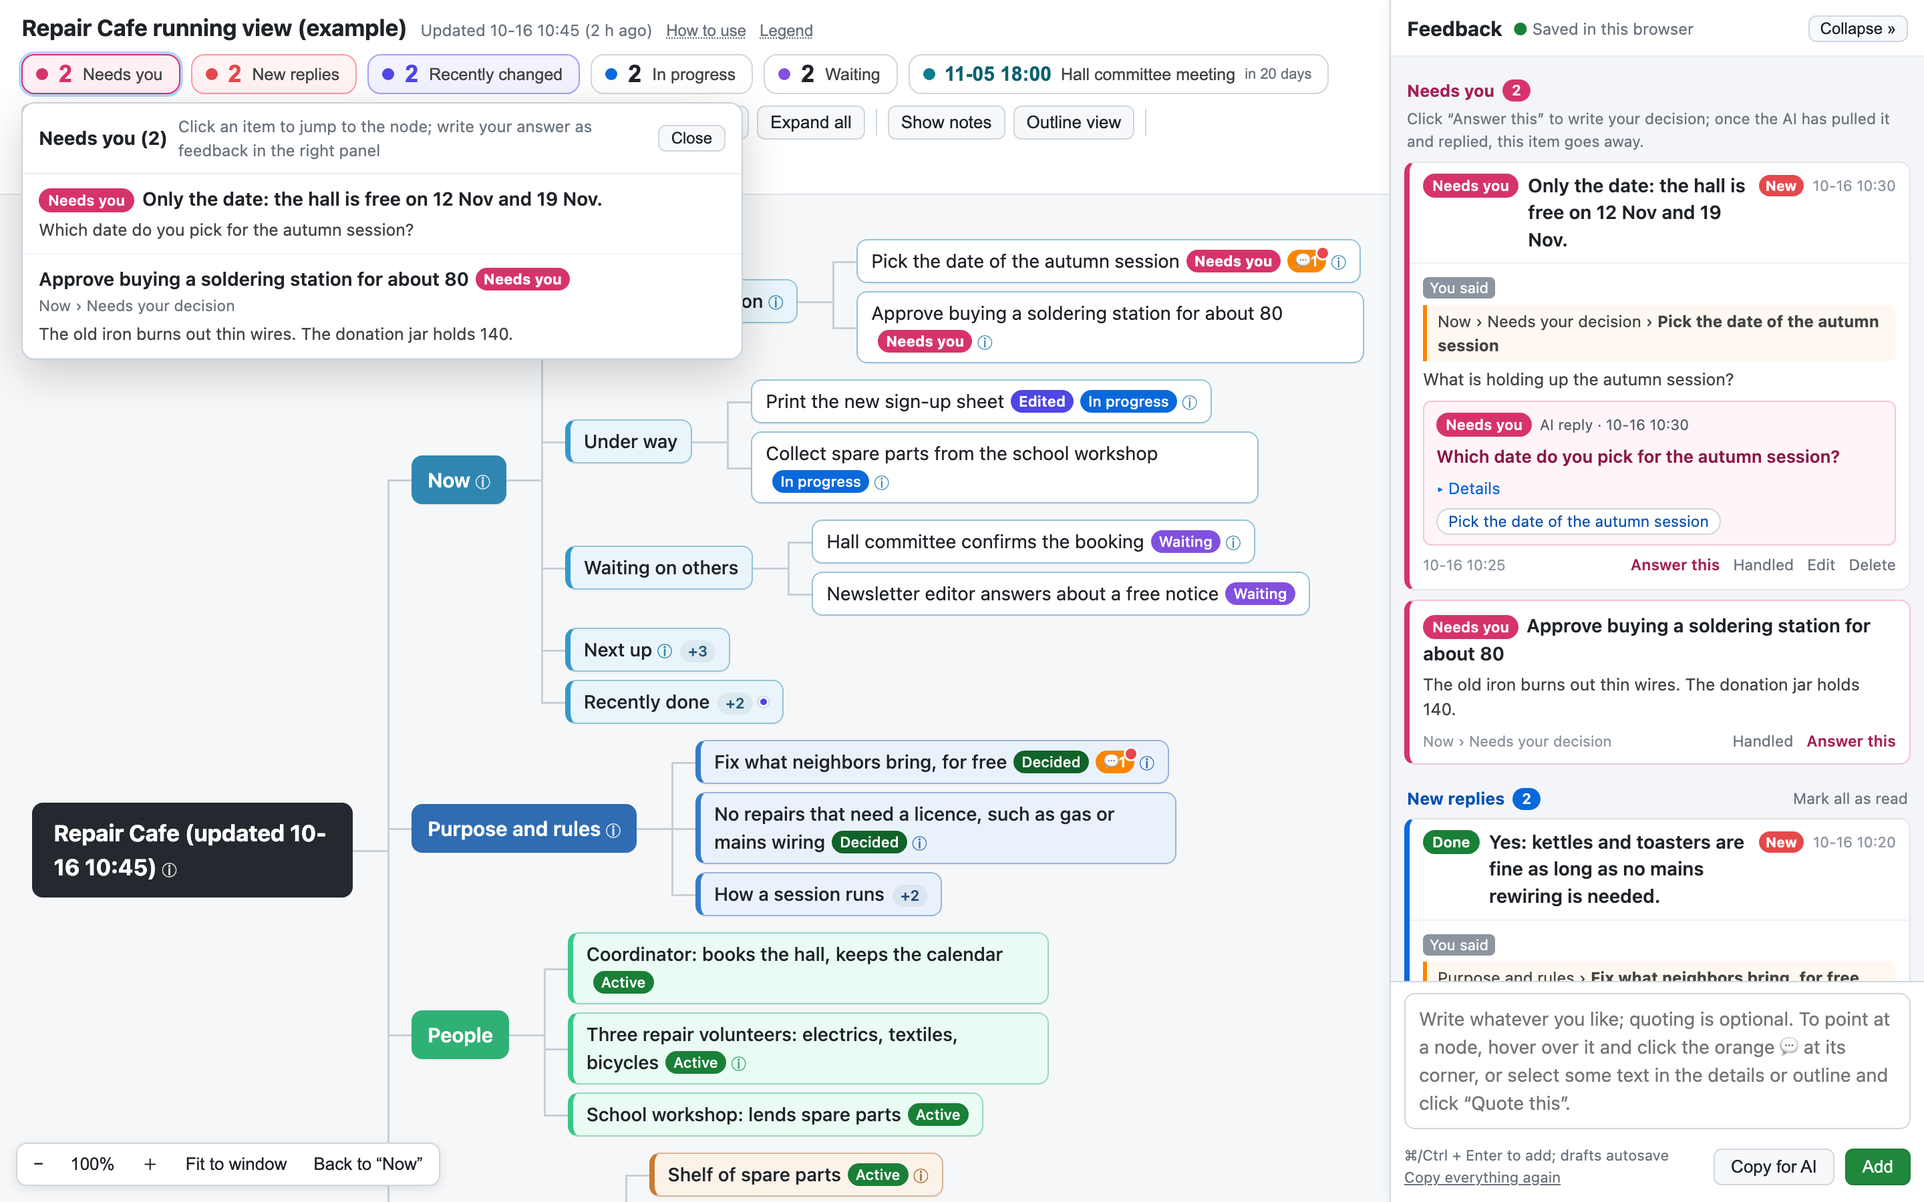
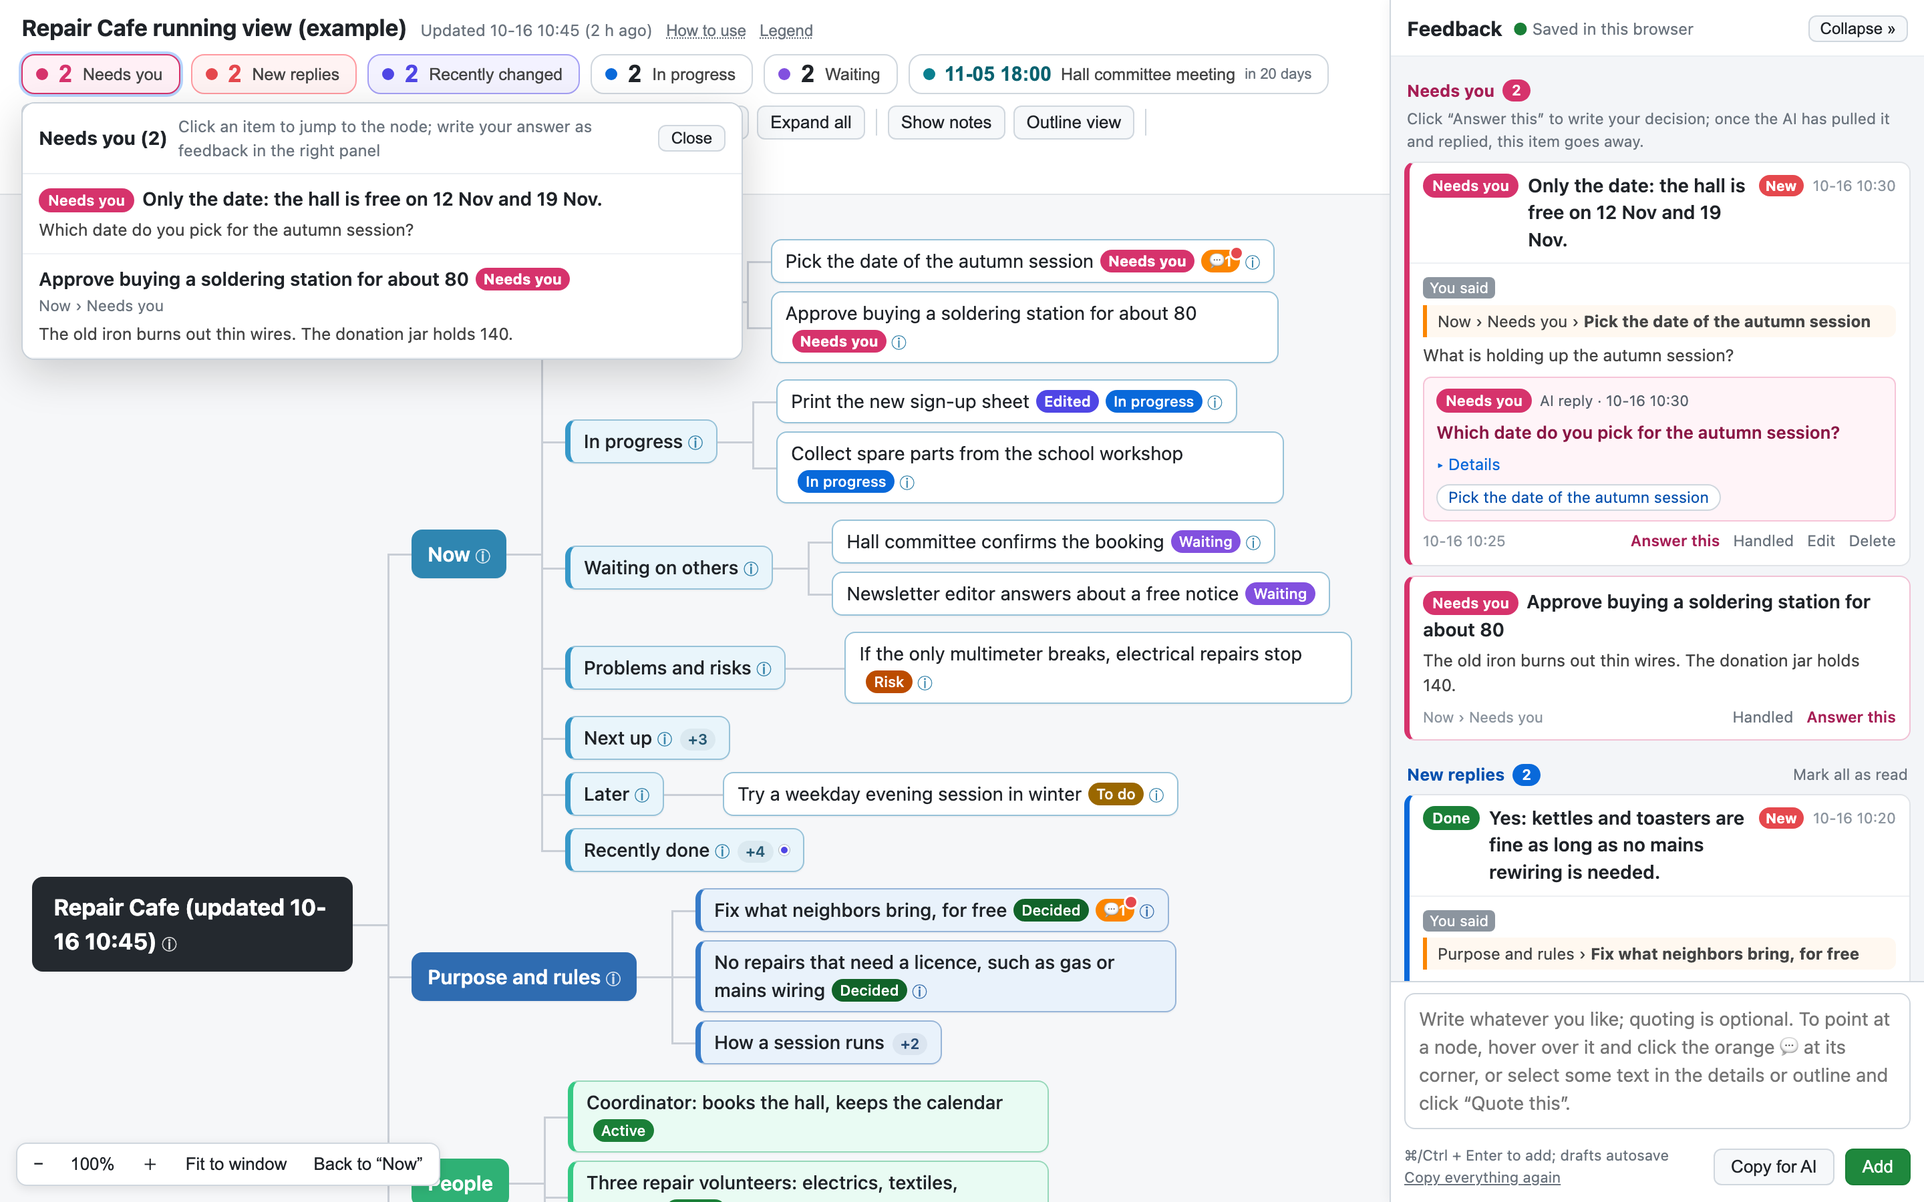
feat: turn the examples into learning and project-tracking maps
- repair-cafe-en/zh: the seven-section Now branch, dated Next up entries, day groups under Recently done
- tool-library-en and book-corner-zh: a "What this means for us" branch, use: learning
- the demo-site index labels each example by its use
- screenshots regenerated; the examples are checked against the new rules with the clock pinned

diff --git a/tests/test_examples.py b/tests/test_examples.py
@@ -1,12 +1,16 @@
 """Every example under examples/ must build cleanly and in its own language; the two big ones show off all ten
 statuses, the two small "repair-cafe" ones show the long-running console (the "now" branch and the needs-you tag)."""
 import json
+import os
 import re
 import shutil
 import tempfile
 import unittest
 
 from helpers import CJK, EXAMPLES, build, page_json
+
+# The dates in the console examples are fictional and sit around this moment (2026-10-18 12:00 UTC); their "Now" check is run at it.
+EXAMPLE_EPOCH = "1792324800"
 
 ALL_STATUSES = {"active", "stopped", "doing", "todo", "issue", "done", "decided", "waiting", "risk", "proposal"}
 CONSOLE = "repair-cafe"      # the folder prefix of the long-running console examples
@@ -107,6 +111,40 @@ class ExampleTests(unittest.TestCase):
                 self.assertNotIn("{{", result.root["t"])       # the update-time placeholder was replaced
                 self.assertTrue(any(re.match(r"\d\d-\d\d \d\d:\d\d ", n["t"]) for n, _, _ in build.walk(result.root)),
                                 "dated entries for the 'next up' number")
+
+    def test_the_console_examples_are_project_tracking_maps_with_the_seven_sections_and_a_clean_check(self):
+        sections = {"repair-cafe-en": ["Needs you", "In progress", "Waiting on others", "Problems and risks", "Next up", "Later", "Recently done"],
+                    "repair-cafe-zh": ["要你定的", "在做的", "在等别人的", "问题和风险", "接下来的时间点", "以后再做", "最近做完的"]}
+        os.environ["SOURCE_DATE_EPOCH"] = EXAMPLE_EPOCH
+        self.addCleanup(os.environ.pop, "SOURCE_DATE_EPOCH", None)
+        for src in example_dirs():
+            if not is_console(src):
+                continue
+            with self.subTest(example=src.name):
+                tmp = tempfile.mkdtemp(prefix="mind-atlas-example-")
+                self.addCleanup(shutil.rmtree, tmp, True)
+                meta = json.loads((src / "meta.json").read_text(encoding="utf-8"))
+                result = build.build(shutil.copytree(str(src), tmp + "/work"), no_paths=True)
+                now = result.root["c"][0]
+                self.assertEqual([c["t"] for c in now["c"]], sections[src.name])
+                self.assertEqual(page_json(result.out.read_text(encoding="utf-8"), "meta")["use"], "tracking")
+                self.assertIn(meta["use"], build.USES["tracking"])
+                self.assertEqual(result.stale, [])               # no passed time points, no "today", "Recently done" in limits
+                self.assertEqual(result.open_outside, [])
+
+    def test_the_big_examples_are_learning_maps_that_end_with_what_it_means_for_us(self):
+        for src in example_dirs():
+            if is_console(src):
+                continue
+            with self.subTest(example=src.name):
+                tmp = tempfile.mkdtemp(prefix="mind-atlas-example-")
+                self.addCleanup(shutil.rmtree, tmp, True)
+                result = build.build(shutil.copytree(str(src), tmp + "/work"), no_paths=True)
+                self.assertEqual(page_json(result.out.read_text(encoding="utf-8"), "meta")["use"], "learning")
+                titles = [c["t"] for c in result.root["c"]]
+                self.assertEqual(titles[-2], {"en": "What this means for us", "zh": "对我们有什么用"}[src.name.rsplit("-", 1)[1]])
+                self.assertEqual(titles[-1], {"en": "About this map", "zh": "关于这张图"}[src.name.rsplit("-", 1)[1]])
+                self.assertIsNone(result.stale)                  # no "now" branch, so nothing to check
 
     def test_the_english_example_uses_the_ascii_spellings(self):
         src = EXAMPLES / "tool-library-en"

diff --git a/tools/make_screenshots.py b/tools/make_screenshots.py
@@ -72,7 +72,7 @@ SHOTS = [
         "items": [{"id": "F1016-101500-ab", "ts": "2026-10-16 10:15:00", "sent": "2026-10-16 10:16:00",
                    "text": "Can we also fix kettles and toasters?", "path": ["Purpose and rules", "Fix what neighbors bring, for free"]},
                   {"id": "F1016-102500-cd", "ts": "2026-10-16 10:25:00", "sent": "2026-10-16 10:26:00",
-                   "text": "What is holding up the autumn session?", "path": ["Now", "Needs your decision", "Pick the date of the autumn session"]}],
+                   "text": "What is holding up the autumn session?", "path": ["Now", "Needs you", "Pick the date of the autumn session"]}],
         "replies": [{"id": "F1016-101500-ab", "ts": "2026-10-16 10:20:00", "status": "done",
                      "summary": "Yes: kettles and toasters are fine as long as no mains rewiring is needed.",
                      "text": "Small appliances with a plug are in scope. I added them to the rule and to the sign-in sheet draft.",
@@ -89,7 +89,7 @@ SHOTS = [
         "items": [{"id": "F1016-101500-ab", "ts": "2026-10-16 10:15:00", "sent": "2026-10-16 10:16:00",
                    "text": "水壶和烤面包机也能修吗？", "path": ["目的与规矩", "免费帮邻居修他们带来的东西"]},
                   {"id": "F1016-102500-cd", "ts": "2026-10-16 10:25:00", "sent": "2026-10-16 10:26:00",
-                   "text": "秋季场现在卡在哪？", "path": ["现在", "等你拍板", "选定秋季场的日期"]}],
+                   "text": "秋季场现在卡在哪？", "path": ["现在", "要你定的", "选定秋季场的日期"]}],
         "replies": [{"id": "F1016-101500-ab", "ts": "2026-10-16 10:20:00", "status": "已做",
                      "summary": "能修：水壶和烤面包机都行，只要不用改市电布线。",
                      "text": "带插头的小家电都在范围内。我已把它们写进规矩，也加进了签到表草稿。",

diff --git a/tools/build_site.py b/tools/build_site.py
@@ -61,7 +61,8 @@ def build_site(out_dir):
         finally:
             shutil.rmtree(str(tmp), ignore_errors=True)
         language = "English" if meta.get("lang") == "en" else "中文"
-        kind = "long-running console / 长期控制台" if meta.get("now") else "full map / 全貌图"
+        kind = {"tracking": "project tracking / 跟进项目", "learning": "learning / 学习理解",
+                "decision": "decision / 做决定"}.get(build.normalize_use(meta.get("use", "")), "map / 导图")
         items.append('<li><a href="%s">%s</a> <small>%s, %s, %d nodes</small></li>'
                      % (result.out.name, build.esc(meta["title"]), language, kind, result.nodes))
         written.append(result.out.name)

diff --git a/tests/test_site.py b/tests/test_site.py
@@ -23,6 +23,8 @@ class SiteTests(unittest.TestCase):
             meta = page_json((out / name).read_text(encoding="utf-8"), "meta")
             self.assertNotIn("file", meta)
             self.assertNotIn("reply_cmd", meta)
+        self.assertEqual(index.count("project tracking / 跟进项目"), 2)       # the kind comes from the example's "use"
+        self.assertEqual(index.count("learning / 学习理解"), 2)
         self.assertTrue((out / ".nojekyll").exists())
         self.assertEqual(sorted(p.name for p in out.iterdir()), [".nojekyll", "book-corner.html", "index.html", "repair-cafe-zh.html", "repair-cafe.html", "tool-library.html"])
 

diff --git a/examples/README.md b/examples/README.md
@@ -4,29 +4,31 @@ Four small, made-up maps. They exist to show the outline format and the page; no
 
 | Folder | Language | Map | Nodes |
 |---|---|---|---|
-| [`tool-library-en`](tool-library-en) | English | A neighborhood tool library run by five volunteers | 60 |
-| [`book-corner-zh`](book-corner-zh) | 中文 | 小区旧书漂流角（志愿者维护的一组书架） | 60 |
-| [`repair-cafe-en`](repair-cafe-en) | English | A monthly repair cafe, as a long-running map with a "Now" branch | 38 |
-| [`repair-cafe-zh`](repair-cafe-zh) | 中文 | 旧物维修咖啡馆，带「现在」分支的长期使用的图 | 38 |
+| [`tool-library-en`](tool-library-en) | English | A neighborhood tool library run by five volunteers | 65 |
+| [`book-corner-zh`](book-corner-zh) | 中文 | 小区旧书漂流角（志愿者维护的一组书架） | 65 |
+| [`repair-cafe-en`](repair-cafe-en) | English | A monthly repair cafe, as a project-tracking map with a "Now" branch | 44 |
+| [`repair-cafe-zh`](repair-cafe-zh) | 中文 | 旧物维修咖啡馆，带「现在」分支的跟进项目的图 | 44 |
 
 Each folder holds source files only:
 
 | File | What it is |
 |---|---|
-| `meta.json` | Title, `lang`, a stable `id`, level, description, and the order of the pieces |
+| `meta.json` | Title, `lang`, `use` (what the map is for), a stable `id`, level, description, and the order of the pieces |
 | `outline-trunk.md` | The trunk: purpose and rules, who does what. Written by the mapper |
 | `outline-A-*.md`, `outline-B-*.md` | Branches that sub-agents would research. Piece A is attached under the last trunk node by indenting it two more spaces; piece B starts with its own branch head |
 | `outline-T-*.md` | The cross-cutting branches: timeline, where the data lives |
 | `outline-Z-*.md` | Problems and next steps, with the mapper's own judgment marked `[proposal]` |
+| `outline-Y-*.md` | "What this means for us", the closing branch of a learning map |
 | `outline-about.md` | About this map |
 
-The first two maps each use all ten of the original status tags. The English one uses the ASCII
+The first two maps are learning maps (`"use": "learning"`) and each use all ten of the original status tags. The English one uses the ASCII
 spellings (`[active]`, ` | `, `[src: ...]`); the Chinese one uses the Chinese spellings (`【在用】`, ` ｜ `, `〔...〕`).
 
-The two `repair-cafe` maps are the same small map in both languages. They show a long-running map: a first-level
-"Now" branch (set with `"now"` in `meta.json`) with items that need the user (`[needs-you]`), are in progress or are
-waiting, dated entries under "Next up", a root title that carries the update time (`{{updated}}`) with a fixed `root_key`,
-and a single `outline-main.md`. Open the page and look at the five numbers under the title.
+The two `repair-cafe` maps are the same small map in both languages. They show a project-tracking map (`"use": "project tracking"`): a first-level
+"Now" branch (set with `"now"` in `meta.json`) with its seven sections: items that need the user (`[needs-you]`), are in progress or are
+waiting, problems and risks, dated entries under "Next up", "Later" and day groups under "Recently done"; a root title that carries the
+update time (`{{updated}}`) with a fixed `root_key`, and a single `outline-main.md`. Open the page and look at the five numbers under the
+title. The dates are made up around 18 Oct 2026, so building the example much later prints the stale-"Now" warnings; that is the check working.
 
 ## Build one
 

diff --git a/examples/repair-cafe-en/outline-main.md b/examples/repair-cafe-en/outline-main.md
@@ -1,21 +1,27 @@
-# Repair Cafe ({{updated}}) | A running view of a monthly repair cafe run by volunteers. Made-up content: it shows the "Now" branch, the five numbers at the top of the page and the "needs you" tag.
-- Now | What is going on right now. The numbers at the top of the page count the tagged items in this branch.
-  - Needs your decision | Everything below carries the "needs you" tag, so it is counted under "Needs you". Answer it as feedback in the right panel.
+# Repair Cafe ({{updated}}) | A running view of a monthly repair cafe run by volunteers. Made-up content: it shows a project-tracking map: the "Now" branch, the five numbers at the top of the page and the "needs you" tag.
+- Now | What is going on right now: always the same seven sections, in this order. The numbers at the top of the page count the tagged items here.
+  - Needs you | Everything below carries the "needs you" tag, so it is counted under "Needs you". Answer it as feedback in the right panel. If nothing needs you, this section says so.
     - Pick the date of the autumn session [needs-you] | Two dates fit: 12 Nov or 19 Nov. The hall is free on both, and the volunteers lean towards the 19th.
     - Approve buying a soldering station for about 80 [needs-you] | The old iron burns out thin wires. The donation jar holds 140.
-  - Under way
+  - In progress | Who is doing it and when there will be a result.
     - Print the new sign-up sheet [in progress] | The draft is done; it still needs a line for "what are you bringing?".
     - Collect spare parts from the school workshop [in progress] | Pick-up is arranged for Saturday morning.
-  - Waiting on others
+  - Waiting on others | Whom we wait for, for what, and since when.
     - Hall committee confirms the booking [waiting] | The committee meets on 5 Nov.
     - Newsletter editor answers about a free notice [waiting]
-  - Next up | Times that are still ahead. The nearest one also shows at the top of the page.
+  - Problems and risks | Known and not settled yet, with the person who owns it. A settled one moves to "Recently done".
+    - If the only multimeter breaks, electrical repairs stop [risk] | The coordinator owns it. A second one could be borrowed from the library; see "Tools and parts".
+  - Next up | Dated points, the nearest first; each title starts with the date. The nearest one also shows at the top of the page.
     - 11-05 18:00 Hall committee meeting
     - 11-12 10:00 Autumn session, if the first date is chosen
     - 11-19 10:00 Autumn session, if the second date is chosen
-  - Recently done
-    - Flyers delivered to 40 mailboxes [done]
-    - Toaster repair guide pinned to the wall [done]
+  - Later | Decided, not dated yet.
+    - Try a weekday evening session in winter [todo] | Waits for the date of the autumn session.
+  - Recently done | The last two days, newest first, about ten items at most. Older groups move into a history branch with their titles unchanged.
+    - 10-18
+      - Flyers delivered to 40 mailboxes [done]
+    - 10-17
+      - Toaster repair guide pinned to the wall [done]
 - Purpose and rules | Why the cafe exists and how a session runs. This is the trunk.
   - Fix what neighbors bring, for free [decided] | Success means fewer things thrown away, not a long list of members.
   - No repairs that need a licence, such as gas or mains wiring [decided] | Safety comes first; the volunteers refer these to a professional.

diff --git a/examples/repair-cafe-zh/outline-main.md b/examples/repair-cafe-zh/outline-main.md
@@ -1,21 +1,27 @@
-# 旧物维修咖啡馆（{{更新}}） ｜ 一个由志愿者每月办一次的旧物维修咖啡馆的长期视图。内容是虚构的，用来演示「现在」分支、页面顶部的五个数字和「要你定」标签。
-- 现在 ｜ 此刻正在发生的事。页面顶部的数字数的就是这个分支里带标签的条目。
-  - 等你拍板 ｜ 下面每一条都带「要你定」标签，会计入「要你定」。在右栏写反馈来回答。
+# 旧物维修咖啡馆（{{更新}}） ｜ 一个由志愿者每月办一次的旧物维修咖啡馆的长期视图。内容是虚构的，用来演示跟进项目的图：「现在」分支、页面顶部的五个数字和「要你定」标签。
+- 现在 ｜ 此刻正在发生的事：永远是同样的七节，顺序不变。页面顶部的数字数的就是这个分支里带标签的条目。
+  - 要你定的 ｜ 下面每一条都带「要你定」标签，会计入「要你定」。在右栏写反馈来回答。没有要你定的，这一节就写明没有。
     - 选定秋季场的日期 【要你定】 ｜ 两个日期都行：11 月 12 日或 19 日。礼堂这两天都空着，志愿者倾向 19 日。
     - 批准买一台约 80 元的焊台 【要你定】 ｜ 旧电烙铁会烧断细线。募捐罐里有 140 元。
-  - 在做的
+  - 在做的 ｜ 谁在做、什么时候有结果。
     - 印新的签到表 【进行中】 ｜ 草稿做完了，还要加一行「你带来了什么」。
     - 去学校工坊领备用零件 【进行中】 ｜ 已约好周六上午去取。
-  - 等别人的
+  - 在等别人的 ｜ 等谁、等什么、等了多久。
     - 礼堂管理组确认场地 【等别人】 ｜ 管理组 11 月 5 日开会。
     - 社区简报编辑回复能否免费刊登 【等别人】
-  - 接下来的时间点 ｜ 还没到的时间点。最近的一个也会显示在页面顶部。
+  - 问题和风险 ｜ 已经知道、还没了结的，写清谁在管。了结了就挪进「最近做完的」。
+    - 唯一的万用表一坏，电器维修就得停 【风险】 ｜ 召集人在管。可以向图书馆借第二只，见「工具与零件」。
+  - 接下来的时间点 ｜ 排了日子的事，最近的在前；标题以日期开头。最近的一个也会显示在页面顶部。
     - 11-05 18:00 礼堂管理组开会
     - 11-12 10:00 秋季场（选第一个日期时）
     - 11-19 10:00 秋季场（选第二个日期时）
-  - 最近做完的
-    - 传单已投进 40 个信箱 【已完成】
-    - 烤面包机维修指南已贴上墙 【已完成】
+  - 以后再做 ｜ 定了要做，还没排日子。
+    - 冬天试办一场工作日晚场 【待做】 ｜ 要等秋季场日期定了才能排。
+  - 最近做完的 ｜ 只留最近两天，新的在上，一共十条左右。更早的整组挪进历程分支，标题不改。
+    - 10-18
+      - 传单已投进 40 个信箱 【已完成】
+    - 10-17
+      - 烤面包机维修指南已贴上墙 【已完成】
 - 目的与规矩 ｜ 咖啡馆为什么办、一场活动怎么进行。这是主干。
   - 免费帮邻居修他们带来的东西 【已定】 ｜ 成功的标准是少扔东西，不是会员名单有多长。
   - 不修需要资质的东西，比如燃气和市电布线 【已定】 ｜ 安全第一，志愿者会建议找专业人员。

diff --git a/examples/tool-library-en/outline-Y-what-this-means-for-us.md b/examples/tool-library-en/outline-Y-what-this-means-for-us.md
@@ -1,0 +1,5 @@
+- What this means for us | Written for a group that wants to start a similar library. These readings are the mapper's own and are tagged Proposal; nothing here is decided.
+  - Keep the rules to one page: a loan period, a waiver, and "repair or retire" [proposal] | Three rules cover almost every case, and a new volunteer can explain them in a minute.
+  - Start with hand tools and add power tools later [proposal] | Hand tools are two thirds of the shelf and are rarely out. Power tools are always lent, so they need a waiver and a short loan time.
+  - Skip the barcode scanner [proposal] | The paper sign-out sheet beat the phone app in April.
+  - Ask the founder for the waiver and the sign-out sheet as templates [todo]

diff --git a/examples/book-corner-zh/outline-Y-对我们有什么用.md b/examples/book-corner-zh/outline-Y-对我们有什么用.md
@@ -1,0 +1,5 @@
+- 对我们有什么用 ｜ 写给想自己办一个类似书架的小区。下面是整理方自己的理解，标“建议”的还没有定。
+  - 规矩只写一页：自带一本拿走一本、坏书下架、每月整理一次 【建议】 ｜ 三条规矩覆盖了几乎所有情况，新志愿者一分钟就能讲清楚。
+  - 先放三层书架，不急着扩 【建议】 ｜ 这里每月新进约 20 本、被拿走约 15 本，三层架子目前放得下。
+  - 不做借阅登记 【建议】 ｜ 这里试过的结论是登记太麻烦，没人愿意用。
+  - 向发起人要一份使用说明和整理清单当模板 【待做】
